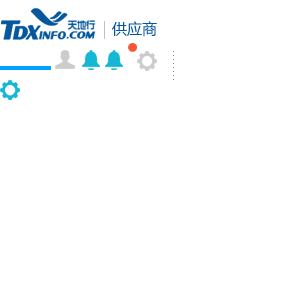
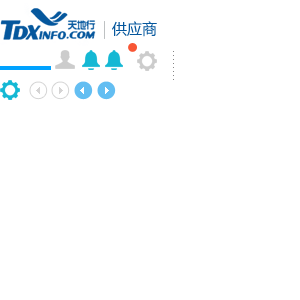
行程展示 body

Changed region(s): [[0.09, 0.27, 0.39, 0.33]]

diff --git a/供应商/旅游/线路管理/行程展示.html b/供应商/旅游/线路管理/行程展示.html
@@ -26,6 +26,7 @@
 
 	<script type="text/javascript" src="/static/js/store/store.js"></script>
 	<script type="text/javascript" src="/static/js/supplier/travel_header.js"></script>
+	<script type="text/javascript" src="/static/js/supplier/supplier_travel.js"></script>
     <!--[if IE]>
     <script src="../static/js/html5.js"></script>
     <script src="../static/js/vendor/IE7.min.js"></script>
@@ -138,8 +139,97 @@
                     </span>
                 </span>
             </div>
-			<div>
-
+			<div class="mainBodyContent">
+				<div class="leftContent">
+					<div class="menu-item-normal menu-item-active">
+						<div class="menu-item-num-normal menu-item-num-active">D1</div>
+						<span class="menu-item-title-normal menu-item-title-active">上海 - 夏威夷</span>
+					</div>
+					<div class="menu-item-normal">
+						<div class="menu-item-num-normal">D2</div>
+						<span class="menu-item-title-normal">夏威夷 - 旧金山</span>
+					</div>
+					<div class="menu-item-normal">
+						<div class="menu-item-num-normal">D2</div>
+						<span class="menu-item-title-normal">夏威夷 - 旧金山</span>
+					</div>
+					<div class="menu-item-normal">
+						<div class="menu-item-num-normal">D3</div>
+						<span class="menu-item-title-normal">夏威夷 - 旧金山</span>
+					</div>
+					<div class="menu-item-normal">
+						<div class="menu-item-num-normal">D4</div>
+						<span class="menu-item-title-normal">夏威夷 - 旧金山</span>
+					</div>
+					<div class="menu-item-normal">
+						<div class="menu-item-num-normal">D5</div>
+						<span class="menu-item-title-normal">夏威夷 - 旧金山</span>
+					</div>
+					<div class="menu-item-normal">
+						<div class="menu-item-num-normal">D6</div>
+						<span class="menu-item-title-normal">夏威夷 - 旧金山</span>
+					</div>
+					<div class="menu-item-normal">
+						<div class="menu-item-num-normal">D7</div>
+						<span class="menu-item-title-normal">夏威夷 - 旧金山</span>
+					</div>
+					<div class="menu-item-normal">
+						<div class="menu-item-num-normal">D8</div>
+						<span class="menu-item-title-normal">夏威夷 - 旧金山</span>
+					</div>
+					<div class="menu-item-normal">
+						<div class="menu-item-num-normal">D9</div>
+						<span class="menu-item-title-normal">夏威夷 - 旧金山</span>
+					</div>
+					<div class="menu-item-normal">
+						<div class="menu-item-num-normal">D10</div>
+						<span class="menu-item-title-normal">夏威夷 - 旧金山</span>
+					</div>
+					<div class="menu-item-normal">
+						<div class="menu-item-num-normal">D11</div>
+						<span class="menu-item-title-normal">夏威夷 - 旧金山</span>
+					</div>
+					<div class="menu-item-normal">
+						<div class="menu-item-num-normal">D12</div>
+						<span class="menu-item-title-normal">夏威夷 - 旧金山</span>
+					</div>
+				</div>
+				<div class="rightContent">
+					<div class="travel-turn">
+						<span class="travel-turn-prev"></span>
+						<span class="travel-day-order">第一天</span>
+						<span class="travel-turn-next"></span>
+					</div>
+					<div class="travel-title">
+						<label>标题：</label>
+						<input type="text" />
+					</div>
+					<div class="travel-spot">
+						<label>游览景点：</label>
+					</div>
+					<div class="travel-content">
+						<label>行程内容：</label>
+						<textarea></textarea>
+					</div>
+					<div class="travel-dinner">
+						<label>用餐：</label>
+						<div class="three-dinner">
+							<span>早餐</span>
+							<input type="text" />
+							<span>午餐</span>
+							<input type="text" />
+							<span>晚餐</span>
+							<input type="text" />
+						</div>						
+					</div>
+					<div class="travel-hotel">
+						<label>酒店：</label>
+						<input type="text" />
+					</div>
+					<div class="travel-next-day">
+						<span>填写下一天</span>
+					</div>
+				</div>
 			</div>
 
 			<!-- <label>出发城市</label>

diff --git a/static/css/supplierTravel.css b/static/css/supplierTravel.css
@@ -625,14 +625,122 @@ html, body, div, p, ul, ol, li, dl, dt, dd, h1, h2, h3, h4, h5, h6, form, input,
     display: none;
 }
 
+/*shuaigeng.zhao   行程展示部分*/
+.majorTitle {
+    font-size: 16px;
+    display: inline-block;
+    margin-top: 12px;
+}
 
+.viceTitle {
+    font-size: 12px;
+    color: #9d9d9d;
+    display: inline-block;
+    margin-left: 10px;
+}
 
+.leftContent {
+    width: 259px;
+    overflow: auto;
+    padding: 10px;
+    background-color: #f9f9f9;
+    max-height: 600px;
+    float: left;
+}
 
+.menu-item-normal {
+    height: 57px;
+    color: #333;
+    font-size: 14px;
+    margin-top: 10px;
+    border-radius: 5px;
+    cursor: pointer;
+}
 
+.menu-item-num-normal {
+    height: 40px;
+    width: 40px;
+    border-radius: 20px;
+    background: #ccc;
+    font-weight: bold;
+    color: #fff;
+    font-size: 16px;
+    text-align: center;
+    line-height: 40px;
+    float: left;
+    margin: 9px 15px;
+}
 
+.menu-item-title-normal {
+    display: inline-block;
+    float: left;
+    font-size: 16px;
+    margin: 20px 0px;
+}
 
+.menu-item-num-hover,
+.menu-item-active {
+    background-color: #0075d2;
+    color: #fff;
+}
 
+.menu-item-num-active {
+    background: #fff;
+    color: #0075d2;
+}
 
+.menu-item-title-active {
+    color: #fff;
+}
 
+.rightContent {
+    float: left;
+    width: 700px;
+    padding: 10px 0;
+}
 
+.travel-turn {
+    height: 40px;
+    width: 15%;
+    margin: 0 auto;
+    position: relative;
+}
 
+.travel-turn-prev {
+    display: inline-block;
+    background: url(../../static/images/supplier/common-icons.png) no-repeat;
+    width: 20px;
+    height: 20px;
+    background-position: -28px -80px;
+    position: absolute;
+    top: 10px;
+    left: 0px;
+}
+
+.travel-turn-prev:hover {
+    background-position: -73px -80px;
+}
+
+.travel-turn-next {
+    display: inline-block;
+    background: url(../../static/images/supplier/common-icons.png) no-repeat;
+    width: 20px;
+    height: 20px;
+    background-position: -50px -80px;
+    position: absolute;
+    top: 10px;
+    right: 0px;
+}
+
+.travel-turn-next:hover {
+    background-position: -97px -80px;
+}
+
+.travel-day-order {
+    font-size: 16px;
+    font-weight: bold;
+    position: absolute;
+    left: 30px;
+    top: 10px;
+
+}

diff --git a/static/js/supplier/supplier_travel.js b/static/js/supplier/supplier_travel.js
@@ -1,0 +1,22 @@
+// 新版供应商  -- 旅游模块
+$(function(){
+
+	// 左侧边栏 hover 改变样式
+	$(".menu-item-normal").hover(function(){
+		$(this).children(".menu-item-num-normal").addClass('menu-item-num-hover');
+	}, function(){
+		$(this).children(".menu-item-num-normal").removeClass('menu-item-num-hover');
+	});
+
+	// 左侧边栏 click 改变样式
+	$(".menu-item-normal").click(function(){
+		$(this).addClass("menu-item-active");
+		$(this).children(".menu-item-num-normal").addClass('menu-item-num-active');
+		$(this).children(".menu-item-title-normal").addClass('menu-item-title-active');
+
+		$(this).siblings().removeClass("menu-item-active");
+		$(this).siblings().children(".menu-item-num-normal").removeClass('menu-item-num-active');
+		$(this).siblings().children(".menu-item-title-normal").removeClass('menu-item-title-active');
+	});
+
+});

diff --git a/static/css/supplier_common.css b/static/css/supplier_common.css
@@ -6,6 +6,8 @@ body {
 .main-body {
 	min-height: 700px;
 	border: 1px solid #e6e6e6;
+	background: #fff;
+	padding: 10px 0;
 }
 
 .main-wrapper {
@@ -19,7 +21,6 @@ body {
 
 .bg-header-top {
 	height: 50px;
-	/*background-color: #f6f6f6;*/
 	width: 100%;
 	position: absolute;
 	z-index: 2;
